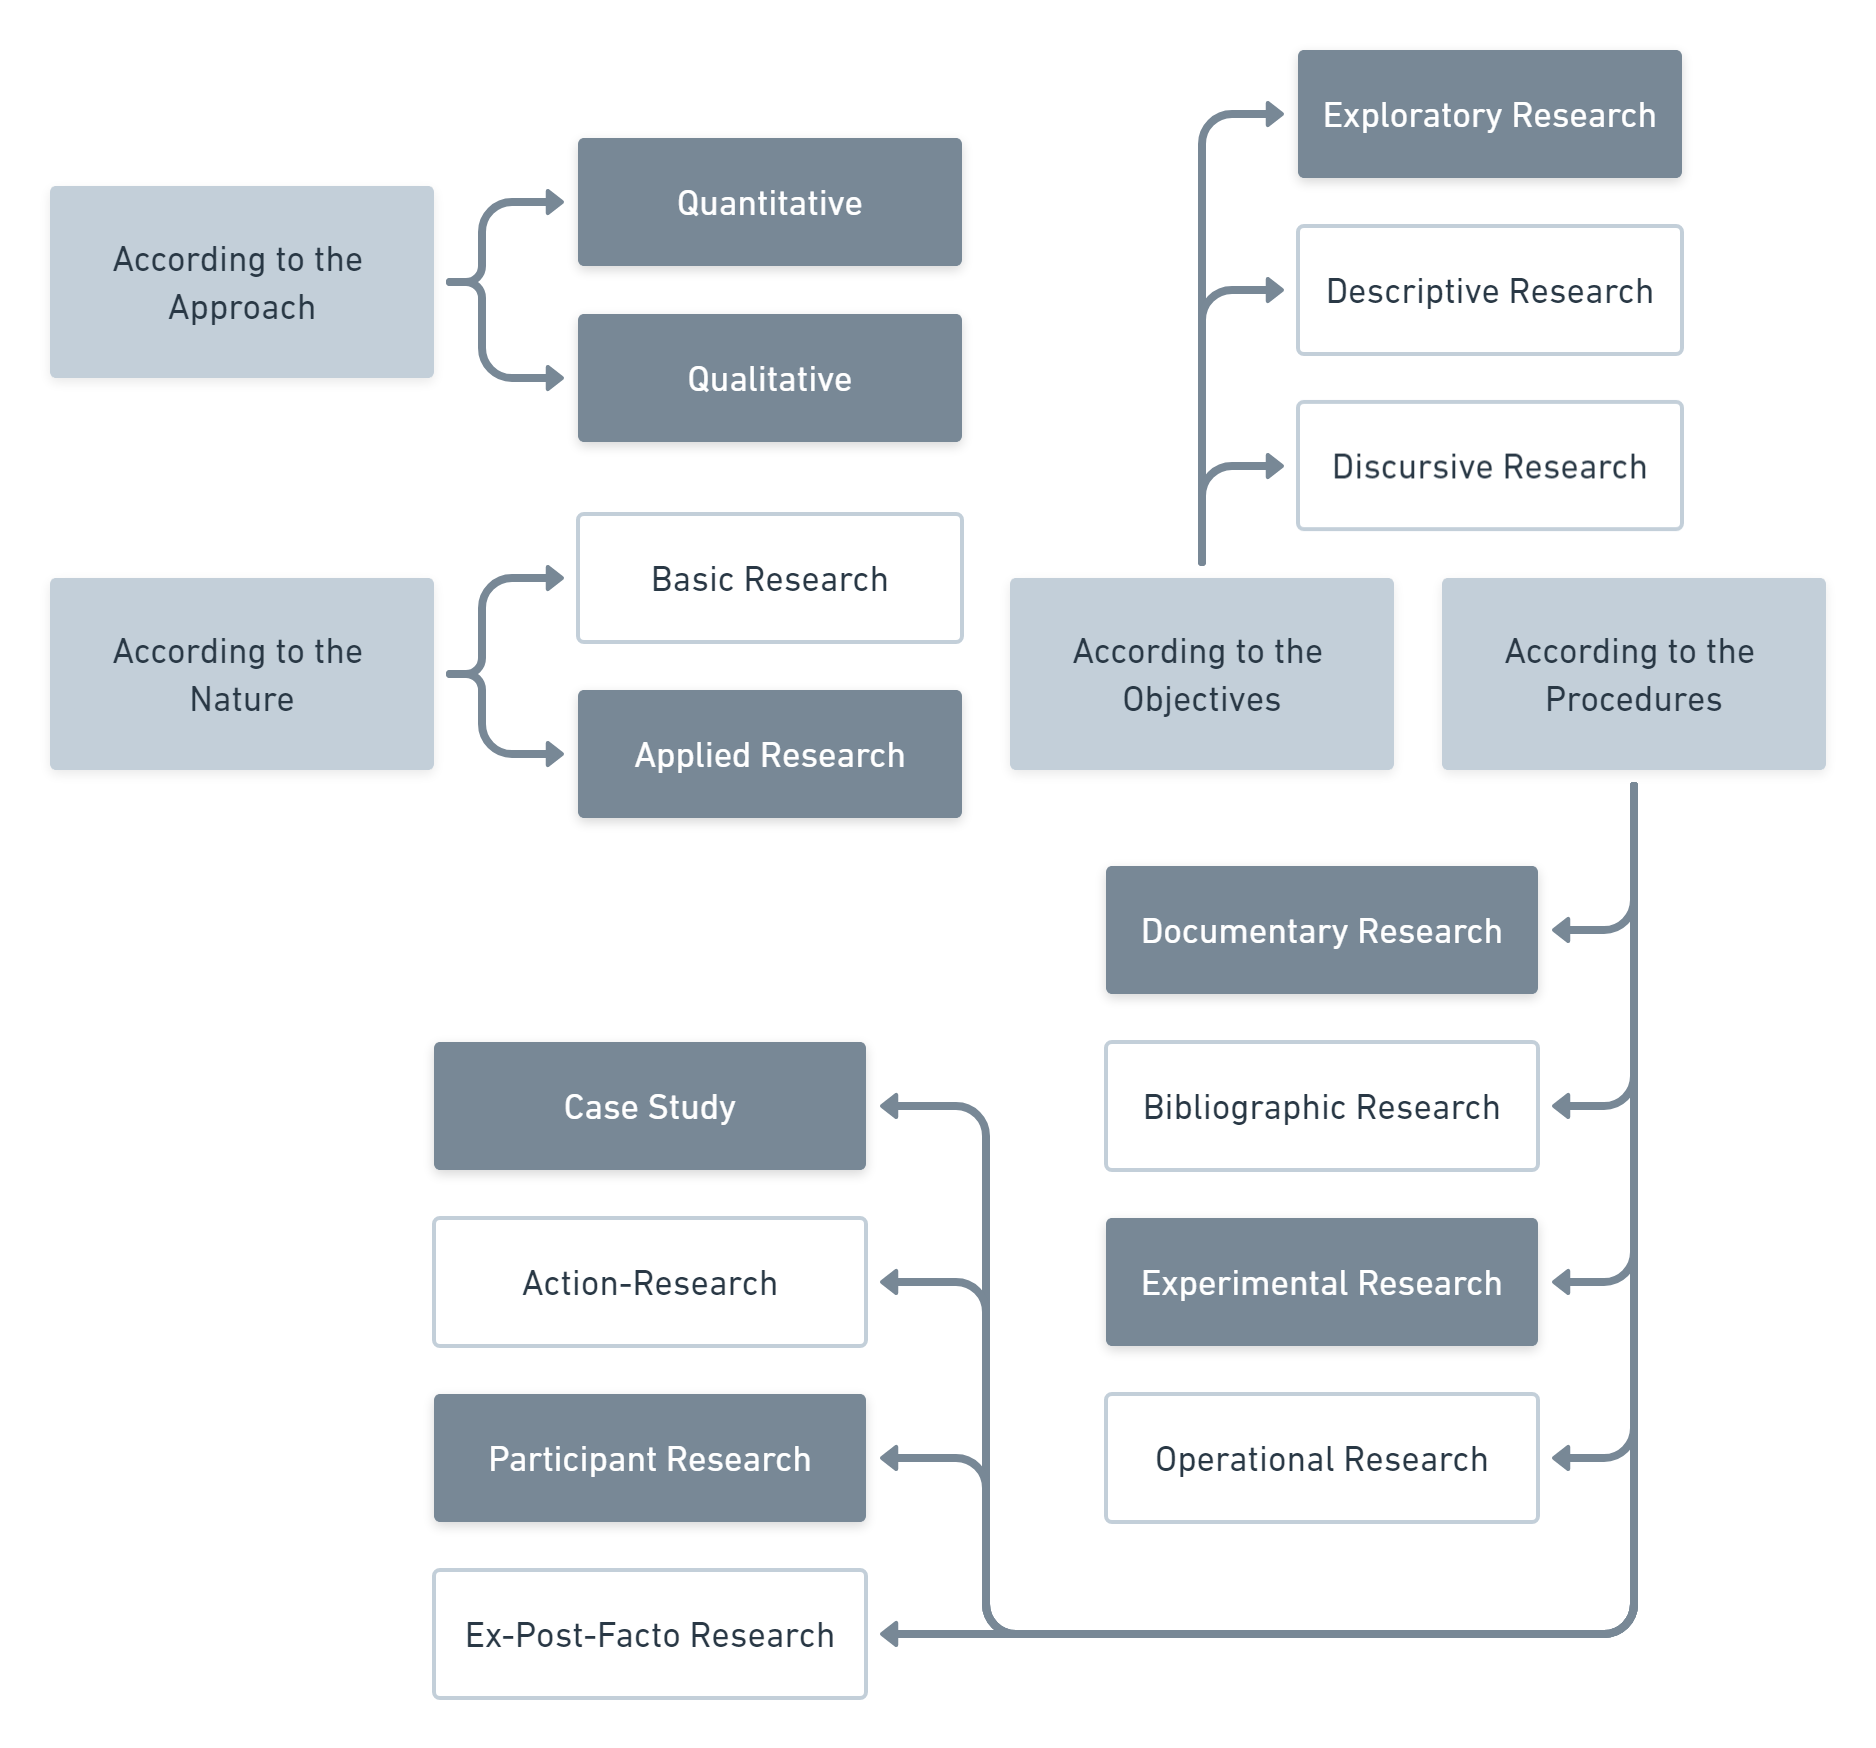
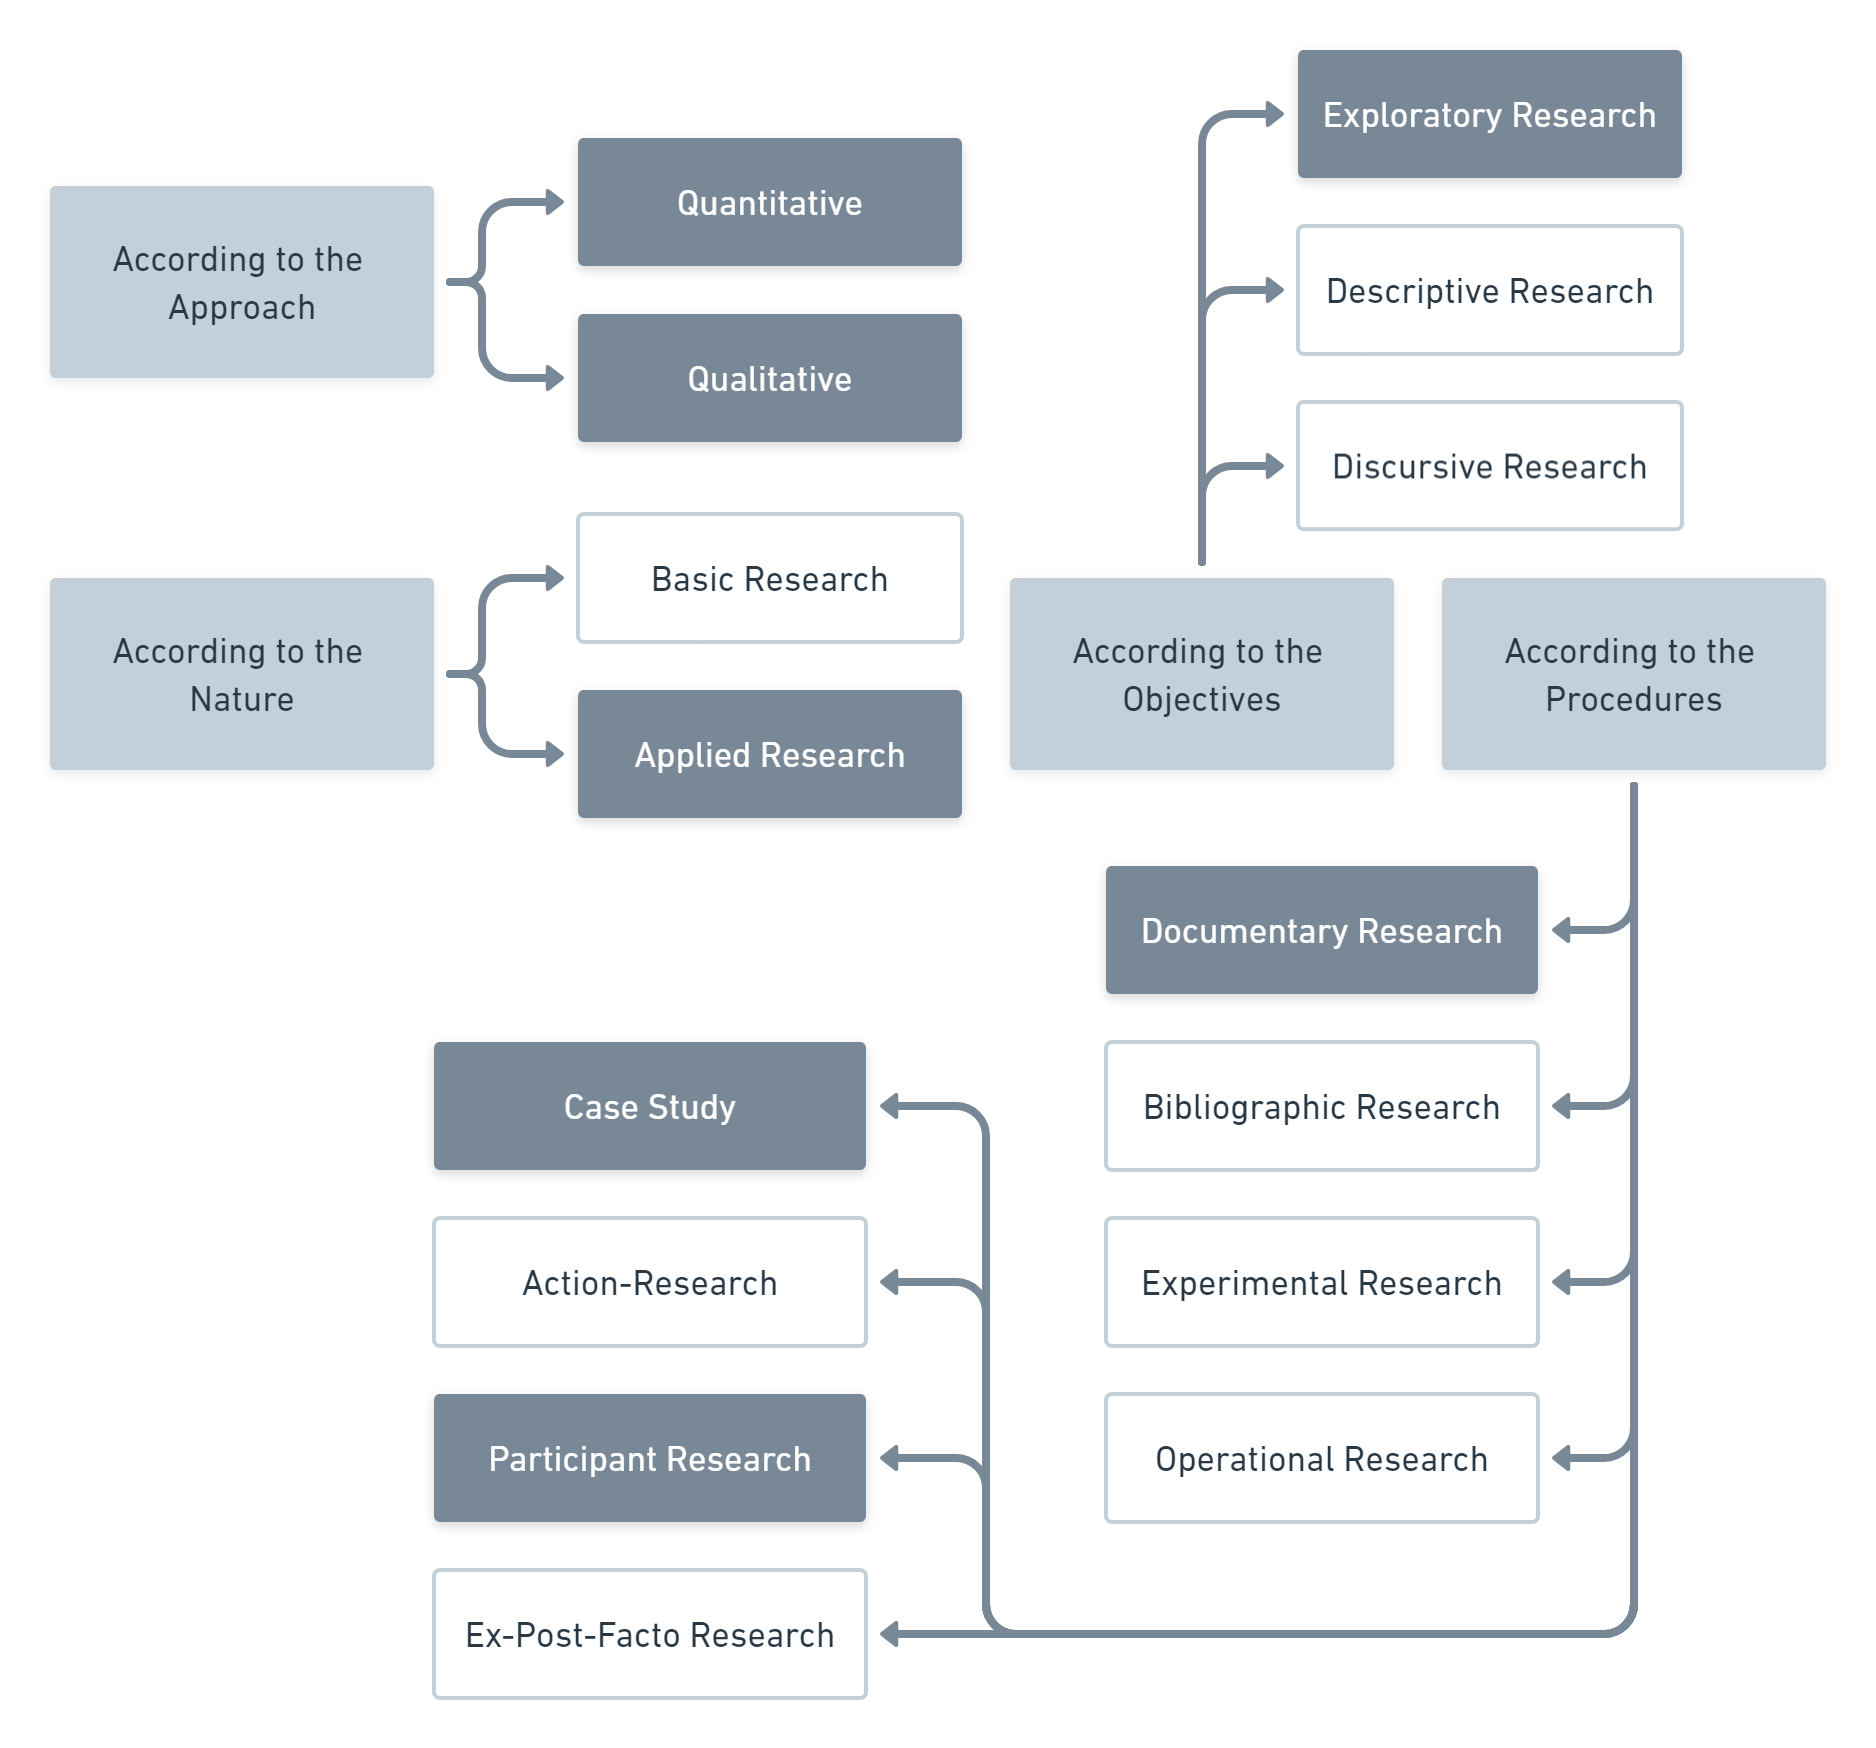
feat: remove experimental research

Changed region(s): [[0.5874, 0.6796, 0.8348, 0.7723]]

diff --git a/textuais/metodologia.tex b/textuais/metodologia.tex
@@ -16,11 +16,11 @@ It is the basic instrument which turns thoughts into systems, ordering them thro
 This research study is defined according to the classification created by \cite{Prodanov:2013}. It has multiple research types, each of which can be classified into several categories according to the nature, goals, approach and procedures of the study. \autoref{fig:research-classification} shows how the research is categorized. The darker boxes represent categories which apply to this work. The terms in them are described in this section. The other boxes are kept for consistency with the original model.
 
 \begin{figure}[htb]
-  \caption{Research Classification}\label{fig:research-classification}
-  \begin{center}
-    \includegraphics[width=16cm]{img/Research Classification@2x.png}
-  \end{center}
-  \fonte{Adapted from \cite{Prodanov:2013}.}
+    \caption{Research Classification}\label{fig:research-classification}
+    \begin{center}
+        \includegraphics[width=16cm]{img/Research Classification@2x.png}
+    \end{center}
+    \fonte{Adapted from \cite{Prodanov:2013}.}
 \end{figure}
 
 Looking through the nature point of view, this is an \textbf{Applied Research}. It has the goal of generating knowledge to the solution of specific problems, through a practical application. It is related to local interests and often has a new process or product as a result.
@@ -29,7 +29,7 @@ From the objectives point of view, it is classified as an \textbf{Exploratory Re
 
 However, the product will certainly be inspired by gray literature, meaning it fits as a \textbf{Documentary Research}. It is similar to bibliographic research, but the main difference between them is the nature of their sources. While bibliographic research makes fundamental use of contributions from various authors on a given subject, documentary research is based on materials that have not yet received an analytical treatment or that can be reworked according to the research objectives.
 
-According to the technical procedures, this research fits in the \textbf{Experimental Research} classification. It requires an object of the study, in this case the proposed tool. Also, the variables that would be able to influence it were selected, and observation of the effects that the variable produces on the object were defined. Related to this classification, the study also fits in the \textbf{Participant Research}, because discovering the universe experienced by the population implies understanding, from an internal perspective, the point of view of individuals and groups about the situations they experience. Which will be achieved through a survey, described in more detail in \autoref{survey}.
+According to the technical procedures, this research fits in the \textbf{Participant Research}, because discovering the universe experienced by the population implies understanding, from an internal perspective, the point of view of individuals and groups about the situations they experience. Which will be achieved through a survey, described in more detail in \autoref{survey}.
 
 Through the approach point of view, the research is both \textbf{Quantitative}, meaning translating opinions and information into numbers to classify and analyze them. And also \textbf{Qualitative}, because some parts of the study can't be quantified, and must be understood subjectively. An example would be to receive written, detailed feedback from a target-user through the survey.
 
@@ -37,20 +37,20 @@ Through the approach point of view, the research is both \textbf{Quantitative}, 
 
 In order to conduct the study correctly, a research design was created. The activities are grouped in five phases:
 \begin{inparaenum}[(1)]
-  \item gather information;
-  \item begin development;
-  \item write term paper;
-  \item develop;
-  \item evaluate.
+    \item gather information;
+    \item begin development;
+    \item write term paper;
+    \item develop;
+    \item evaluate.
 \end{inparaenum}
 They are all described in this section and can also be observed in \autoref{fig:research-design}.
 
 \begin{figure}[htb]
-  \caption{Research Design}\label{fig:research-design}
-  \begin{center}
-    \includegraphics[width=16cm]{img/research design.pdf}
-  \end{center}
-  \fonte{Author.}
+    \caption{Research Design}\label{fig:research-design}
+    \begin{center}
+        \includegraphics[width=16cm]{img/research design.pdf}
+    \end{center}
+    \fonte{Author.}
 \end{figure}
 
 The \textbf{gather information} group aims to create two tangible artifacts: the gray literature systematic review and the survey to better understand the scope of the goal product and most importantly collect a list of well defined requirements.
@@ -60,6 +60,8 @@ The \textbf{begin development} group is where the implementation and the term pa
 Next, there is the \textbf{write term paper} group, in which both first and second term papers are going to be written and defended. It is important to notice that the first work will be written while the initial \ac{MVP} implementation is on going.
 
 Continuing to the next milestone, is the \textbf{develop} group, where it is planned to finish the product development. After that, in the \textbf{evaluate} group, is where the real use case will be ran, and the feedback from it, analyzed. If all goes well, the product might turn into a real solution, adopted by the university to be used.
+
+% Adicionar cronograma
 
 \section{Chapter Summary}\label{sec:met-4}
 
